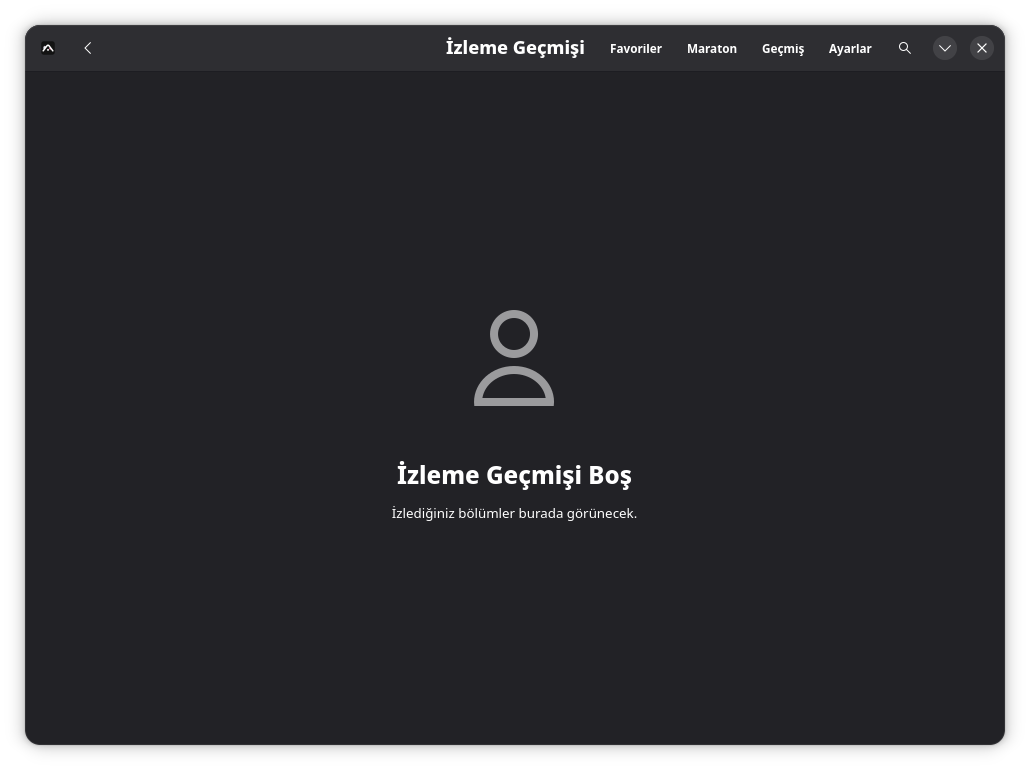
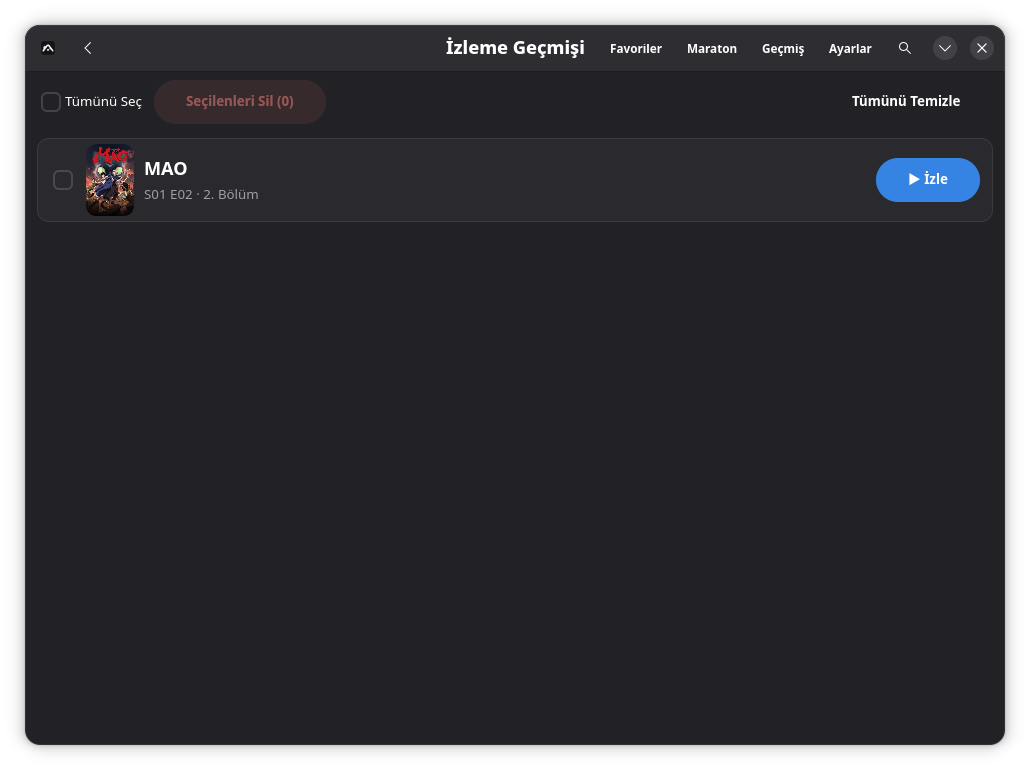
README ekran goruntuleri: dosya adlari duzenlendi, modern 2'li galeri eklendi

diff --git a/README.md b/README.md
@@ -29,11 +29,20 @@ kontrol eder ve kendini otomatik güncelleyebilir.
 
 ## Ekran Görüntüleri
 
-| | | |
-|---|---|---|
-| ![Ana Sayfa](screenshots/home.png) | ![Arama](screenshots/search.png) | ![Bölümler](screenshots/episodes.png) |
-| ![Favoriler](screenshots/favorites.png) | ![Maraton](screenshots/marathon.png) | ![Geçmiş](screenshots/history.png) |
-| ![Ayarlar](screenshots/settings.png) | ![Kurulum](screenshots/welcome.png) | |
+<div align="center">
+
+| | |
+|:---:|:---:|
+| <img src="screenshots/home.png" width="100%"> | <img src="screenshots/search.png" width="100%"> |
+| **🏠 Ana Sayfa** | **🔎 Arama** |
+| <img src="screenshots/episodes.png" width="100%"> | <img src="screenshots/favorites.png" width="100%"> |
+| **▶ Bölüm İzleme** | **⭐ Favoriler** |
+| <img src="screenshots/marathon.png" width="100%"> | <img src="screenshots/history.png" width="100%"> |
+| **🏃 İzleme Maratonu** | **🕘 Geçmiş** |
+| <img src="screenshots/settings.png" width="100%"> | <img src="screenshots/welcome.png" width="100%"> |
+| **⚙ Ayarlar** | **👋 Karşılama** |
+
+</div>
 
 ---
 
